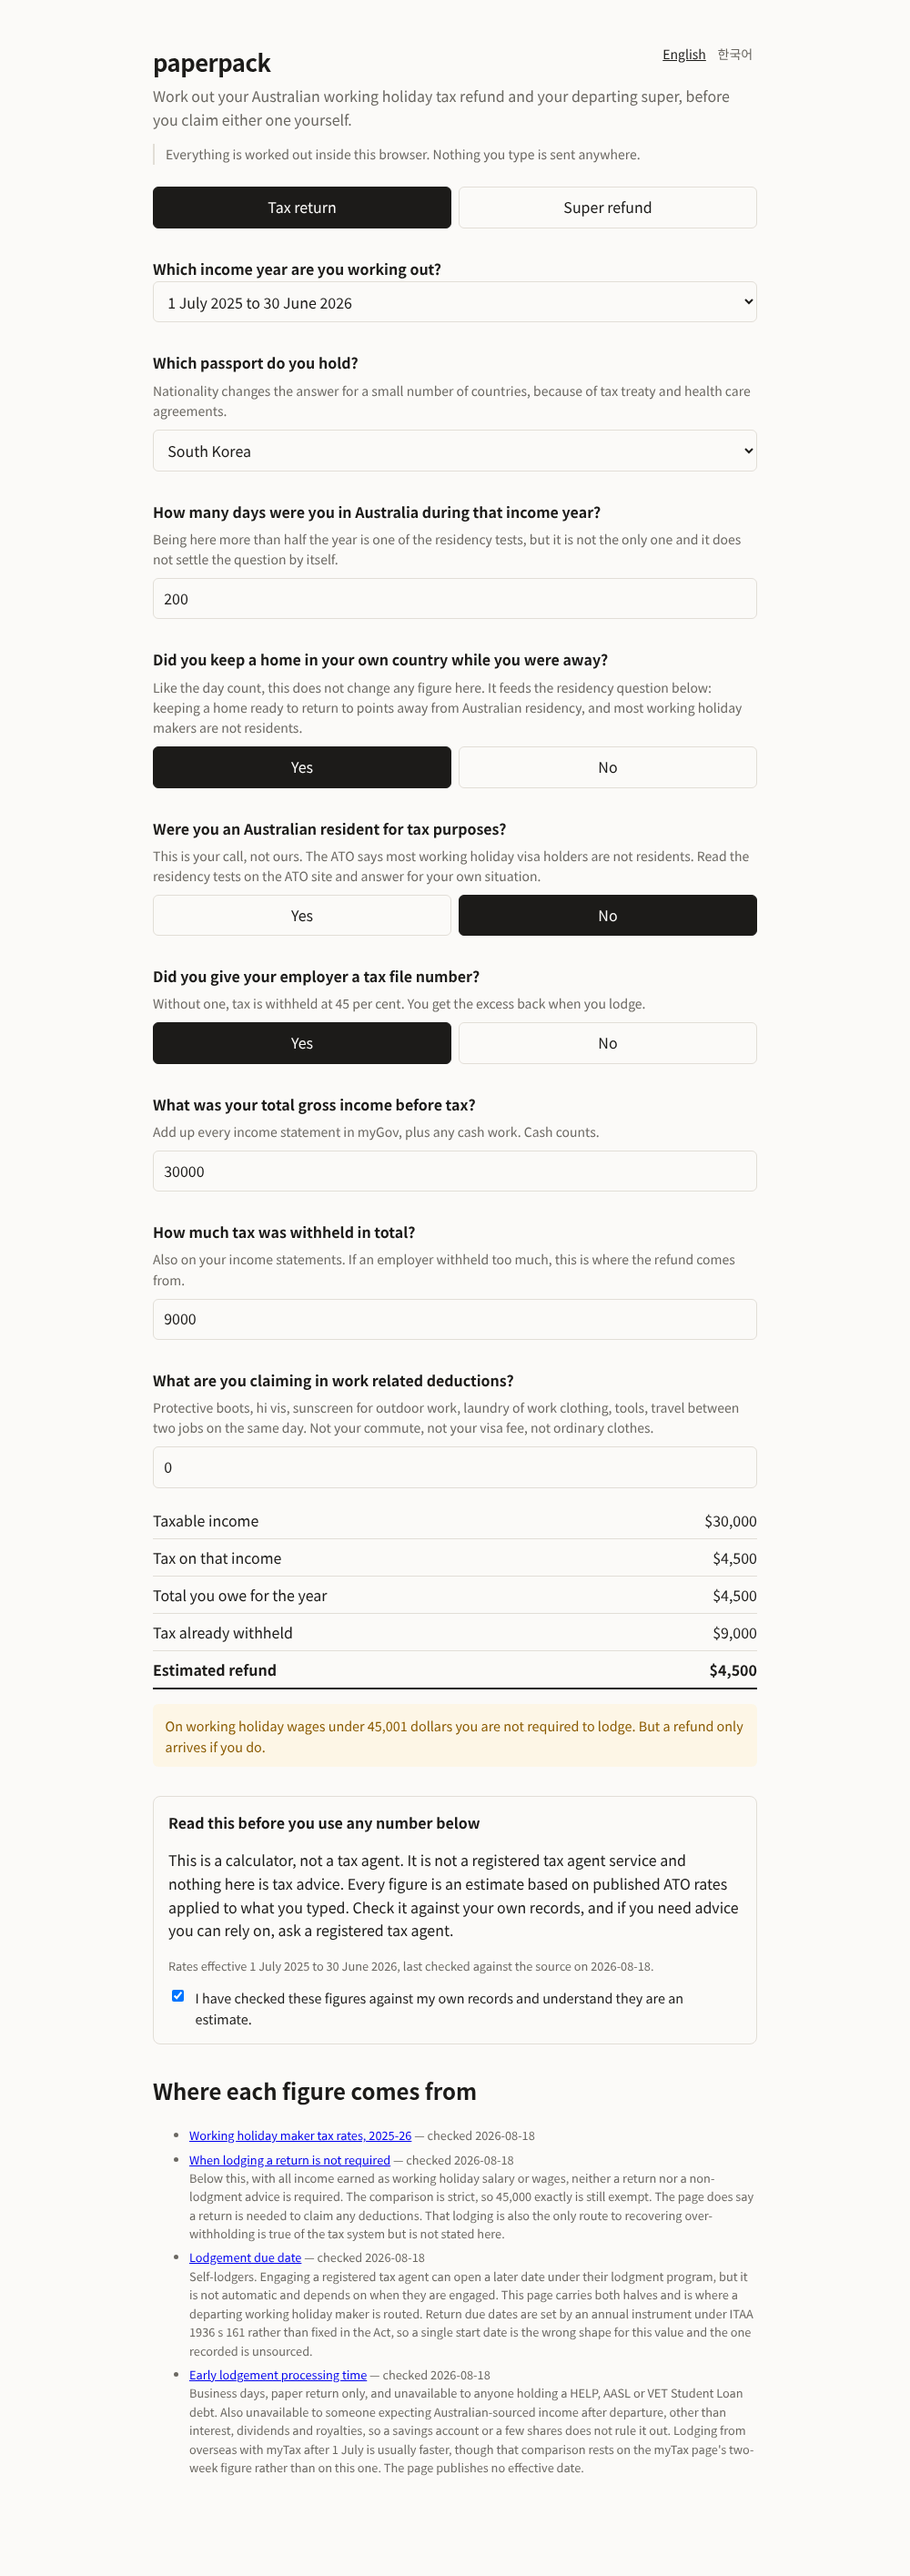
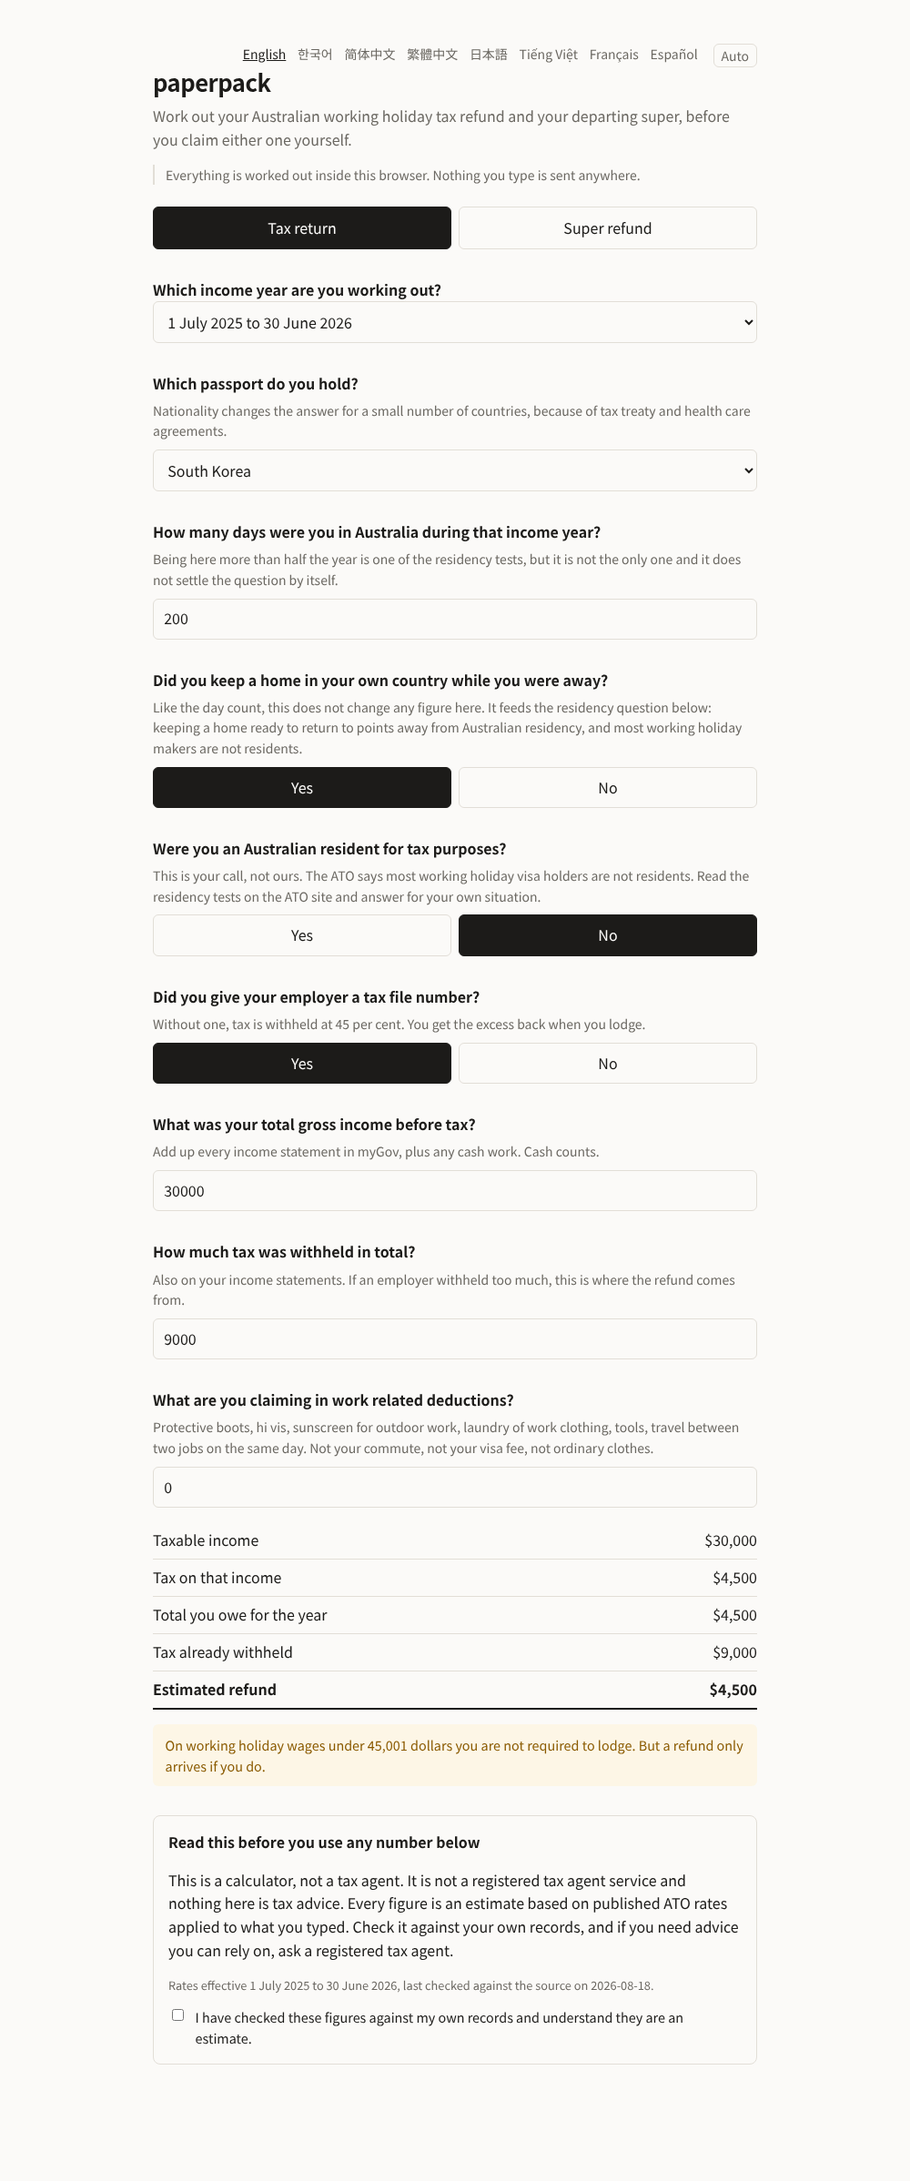
let the reader pick light or dark and fix the select popup in dark mode

diff --git a/web/index.html b/web/index.html
@@ -4,15 +4,31 @@
 <meta charset="utf-8">
 <meta name="viewport" content="width=device-width, initial-scale=1">
 <title>paperpack — Australian working holiday tax</title>
+<script>
+// Before first paint, or a stored theme that disagrees with the system flashes.
+try { const t = localStorage.theme; if (t === 'light' || t === 'dark') document.documentElement.dataset.theme = t } catch {}
+</script>
 <style>
   :root {
+    color-scheme: light dark;
     --bg: #fbfaf8; --fg: #1c1b19; --muted: #6b6862; --line: #e2ded7;
     --accent: #1c1b19; --warn: #8a5a00; --warn-bg: #fdf6e6;
   }
+  /* Without a matching color-scheme the browser paints the native select popup for
+     the other mode and the option text disappears into it. */
+  :root[data-theme=light] { color-scheme: light }
   @media (prefers-color-scheme: dark) {
-    :root { --bg: #161513; --fg: #eceae6; --muted: #9c9890; --line: #33302b;
-            --accent: #eceae6; --warn: #e8c07a; --warn-bg: #2a2317; }
+    :root:not([data-theme=light]) {
+      --bg: #161513; --fg: #eceae6; --muted: #9c9890; --line: #33302b;
+      --accent: #eceae6; --warn: #e8c07a; --warn-bg: #2a2317;
+    }
   }
+  :root[data-theme=dark] {
+    color-scheme: dark;
+    --bg: #161513; --fg: #eceae6; --muted: #9c9890; --line: #33302b;
+    --accent: #eceae6; --warn: #e8c07a; --warn-bg: #2a2317;
+  }
+  option { color: var(--fg); background: var(--bg) }
   * { box-sizing: border-box }
   body {
     margin: 0; background: var(--bg); color: var(--fg);
@@ -53,6 +69,11 @@
     background: transparent; border: 1px solid var(--line); border-radius: 6px;
   }
   .tools button[aria-pressed=true] { background: var(--accent); color: var(--bg); border-color: var(--accent) }
+  .theme { float: right; font-size: .875rem; margin-left: .75rem }
+  .theme button {
+    background: none; border: 1px solid var(--line); border-radius: 6px;
+    color: var(--muted); cursor: pointer; font: inherit; padding: .05rem .5rem;
+  }
   .locale { float: right; font-size: .875rem }
   .locale button { background: none; border: 0; color: var(--muted); cursor: pointer; font: inherit; padding: 0 .3rem }
   .locale button[aria-pressed=true] { color: var(--fg); text-decoration: underline }
@@ -60,6 +81,7 @@
 </head>
 <body>
 <main>
+  <div class="theme"><button id="theme" type="button" data-t="ui.theme.auto"></button></div>
   <div class="locale">
     <button data-locale="en" aria-pressed="true">English</button>
     <button data-locale="ko" aria-pressed="false">Korean</button>
@@ -369,6 +391,22 @@ for (const b of document.querySelectorAll('.tools button')) {
     render()
   }
 }
+const themeBtn = document.getElementById('theme')
+const themes = ['auto', 'light', 'dark']
+let theme = 'auto'
+try { if (themes.includes(localStorage.theme)) theme = localStorage.theme } catch {}
+function applyTheme() {
+  if (theme === 'auto') delete document.documentElement.dataset.theme
+  else document.documentElement.dataset.theme = theme
+  themeBtn.dataset.t = `ui.theme.${theme}`
+  themeBtn.textContent = t(`ui.theme.${theme}`)
+}
+themeBtn.onclick = () => {
+  theme = themes[(themes.indexOf(theme) + 1) % themes.length]
+  try { localStorage.theme = theme } catch {}
+  applyTheme()
+}
+applyTheme()
 for (const b of document.querySelectorAll('.locale button')) {
   b.onclick = () => {
     locale = b.dataset.locale
